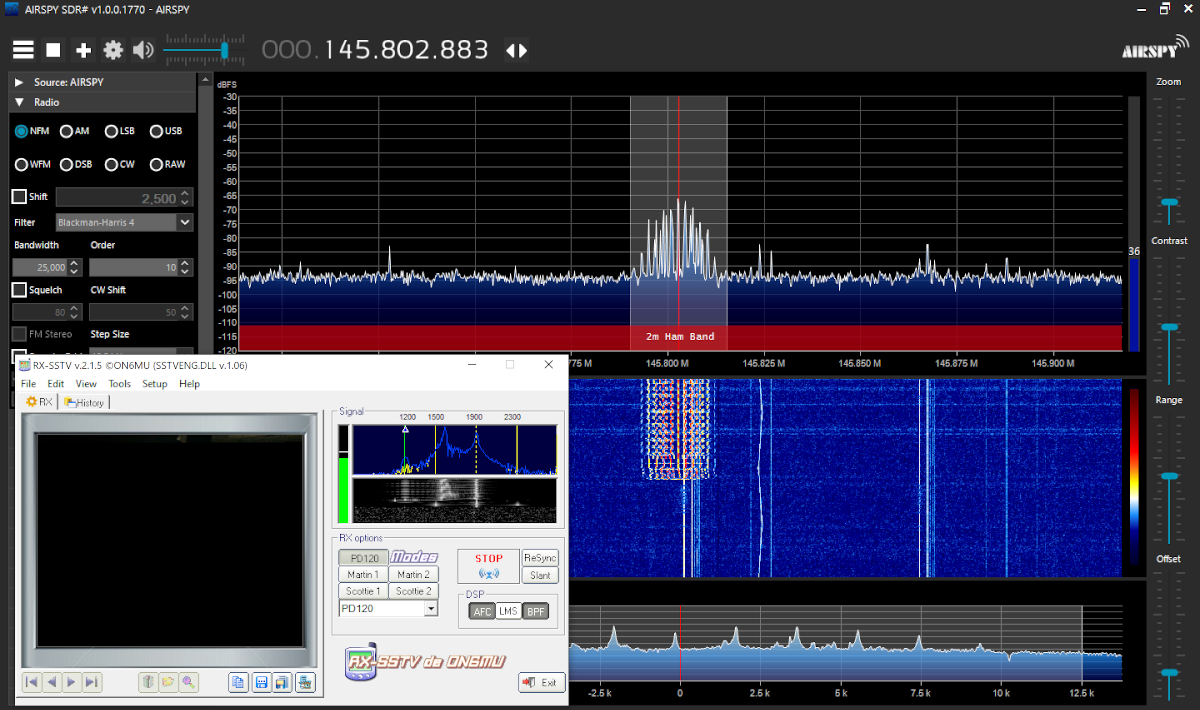
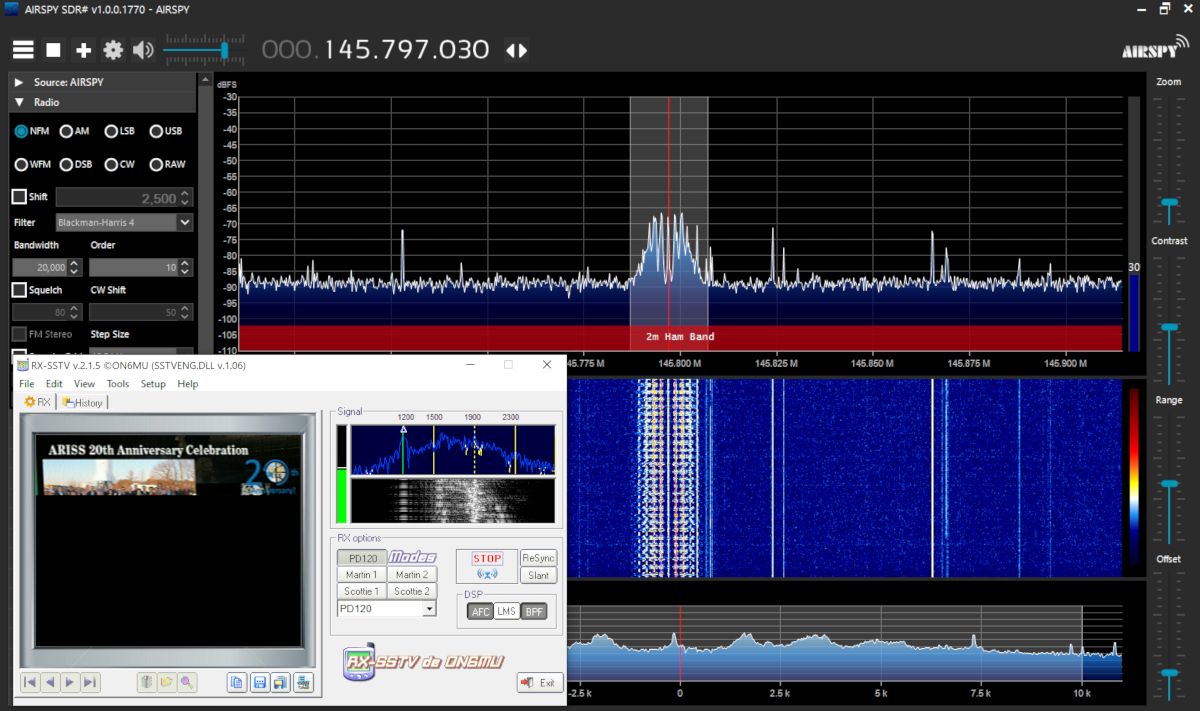
Add related posts

diff --git a/source/_posts/recibir-sstv-iss.md b/source/_posts/recibir-sstv-iss.md
@@ -1,7 +1,7 @@
 ---
 title: Recibir imágenes SSTV desde la ISS
 date: 2020-12-26 18:15:55
-tags: [ISS, SSTV, Windows, SDRSharp]
+tags: [ISS, SSTV]
 author: AlbertoMN
 ---
 
@@ -21,7 +21,7 @@ Los datos para DDETracker son los siguientes:
     ```
     radio_Start
     radio_modulation_type<NFM>
-    radio_bandwidth_Hz<25000>
+    radio_bandwidth_Hz<20000>
     radio_center_frequency_Hz<145800000>
     radio_tracking_frequency_On
     ```

diff --git a/source/_posts/instalacion-spyserver-raspberrypi.md b/source/_posts/instalacion-spyserver-raspberrypi.md
@@ -1,7 +1,7 @@
 ---
 title: Instalación de SPY Server en Raspberry Pi
 date: 2020-04-11 11:10:42
-tags: [RTL-SDR, SDRSharp, Raspberry Pi, Linux, SPY Server]
+tags: [RTL-SDR, SDRSharp, Raspberry Pi, Linux, SPY Server, Instalación]
 author: AlbertoMN
 coauthor: Ronda
 ---

diff --git a/source/_posts/recepcion-datos-HIRS-satelites-NOAA.md b/source/_posts/recepcion-datos-HIRS-satelites-NOAA.md
@@ -1,7 +1,7 @@
 ---
 title: Recepción de datos del instrumental HIRS de los satélites NOAA
 date: 2020-07-27 20:19:04
-tags: [Windows, Satélites, Satélites meteorológicos, SDRSharp]
+tags: [Satélites, Satélites meteorológicos, NOAA]
 author: AlbertoMN
 ---
 

diff --git a/source/_posts/instalacion-satnogs-ansible.md b/source/_posts/instalacion-satnogs-ansible.md
@@ -1,7 +1,7 @@
 ---
 title: Instalación de estación terrestre con SatNOGS (II)
 date: 2020-04-27 16:34:55
-tags: [SatNOGS, RTL-SDR, Linux, Raspberry Pi, Satélites]
+tags: [SatNOGS, Linux, Raspberry Pi, Satélites, Instalación]
 author: AlbertoMN
 ---
 

diff --git a/source/_posts/instalacion-virtual-cable-audio.md b/source/_posts/instalacion-virtual-cable-audio.md
@@ -1,7 +1,7 @@
 ---
 title: Instalación de cable de audio virtual
 date: 2020-01-21 17:06:29
-tags: ['Virtual Audio Cable', SDRSharp, Windows, macOS, CubicSDR]
+tags: ['Virtual Audio Cable', Instalación, Windows, macOS]
 author: AlbertoMN
 ---
 

diff --git a/source/_posts/recepcion-satelites-meteorologicos-NOAA.md b/source/_posts/recepcion-satelites-meteorologicos-NOAA.md
@@ -1,7 +1,7 @@
 ---
 title: Recepción de satélites meteorológicos NOAA
 date: 2020-03-20 13:16:52
-tags: [Windows, Satélites, Satélites meteorológicos, SDRSharp]
+tags: [Satélites, Satélites meteorológicos, NOAA]
 author: AlbertoMN
 ---
 

diff --git a/source/_posts/recepcion-satelites-meteorologicos-meteor.md b/source/_posts/recepcion-satelites-meteorologicos-meteor.md
@@ -1,7 +1,7 @@
 ---
 title: Recepción de satélites meteorológicos Meteor-M
 date: 2020-03-27 12:10:49
-tags: [Windows, Satélites, Satélites meteorológicos, SDRSharp]
+tags: [Satélites, Satélites meteorológicos]
 author: AlbertoMN
 ---
 

diff --git a/source/_posts/instalacion-rtlsdr-raspberrypi.md b/source/_posts/instalacion-rtlsdr-raspberrypi.md
@@ -1,7 +1,7 @@
 ---
 title: Instalación de dispositivos RTL-SDR en Raspberry Pi
 date: 2020-04-10 09:40:15
-tags: [RTL-SDR, SDRSharp, Raspberry Pi, Linux]
+tags: [RTL-SDR, SDRSharp, Raspberry Pi, Linux, Instalación]
 author: AlbertoMN
 ---
 

diff --git a/source/_posts/instalacion-satnogs.md b/source/_posts/instalacion-satnogs.md
@@ -1,7 +1,7 @@
 ---
 title: Instalación de estación terrestre con SatNOGS
 date: 2020-04-24 16:34:55
-tags: [SatNOGS, RTL-SDR, Raspberry Pi, Satélites]
+tags: [SatNOGS, Raspberry Pi, Satélites, Instalación]
 author: AlbertoMN
 ---
 

diff --git a/source/_posts/instalacion-rtlsdr-windows.md b/source/_posts/instalacion-rtlsdr-windows.md
@@ -1,7 +1,7 @@
 ---
 title: Instalación de dispositivos RTL-SDR en Windows
 date: 2020-01-19 19:26:40
-tags: [RTL-SDR, SDRSharp, Windows]
+tags: [RTL-SDR, SDRSharp, Windows, Instalación]
 author: AlbertoMN
 ---
 

diff --git a/source/_posts/recepcion-std-c-inmarsat.md b/source/_posts/recepcion-std-c-inmarsat.md
@@ -1,7 +1,7 @@
 ---
 title: Recepción de mensajes Inmarsat STD-C
 date: 2020-03-09 12:46:44
-tags: [Satélites, Inmarsat, L-Band, SDRSharp, Windows]
+tags: [Satélites, Inmarsat, L-Band]
 author: AlbertoMN
 ---
 

diff --git a/source/_posts/recepcion-aero-inmarsat.md b/source/_posts/recepcion-aero-inmarsat.md
@@ -1,7 +1,7 @@
 ---
 title: Recepción de mensajes Inmarsat Aero
 date: 2020-03-10 12:26:30
-tags: [Satélites, Inmarsat, L-Band, SDRSharp, Windows]
+tags: [Satélites, Inmarsat, L-Band]
 author: AlbertoMN
 ---
 
